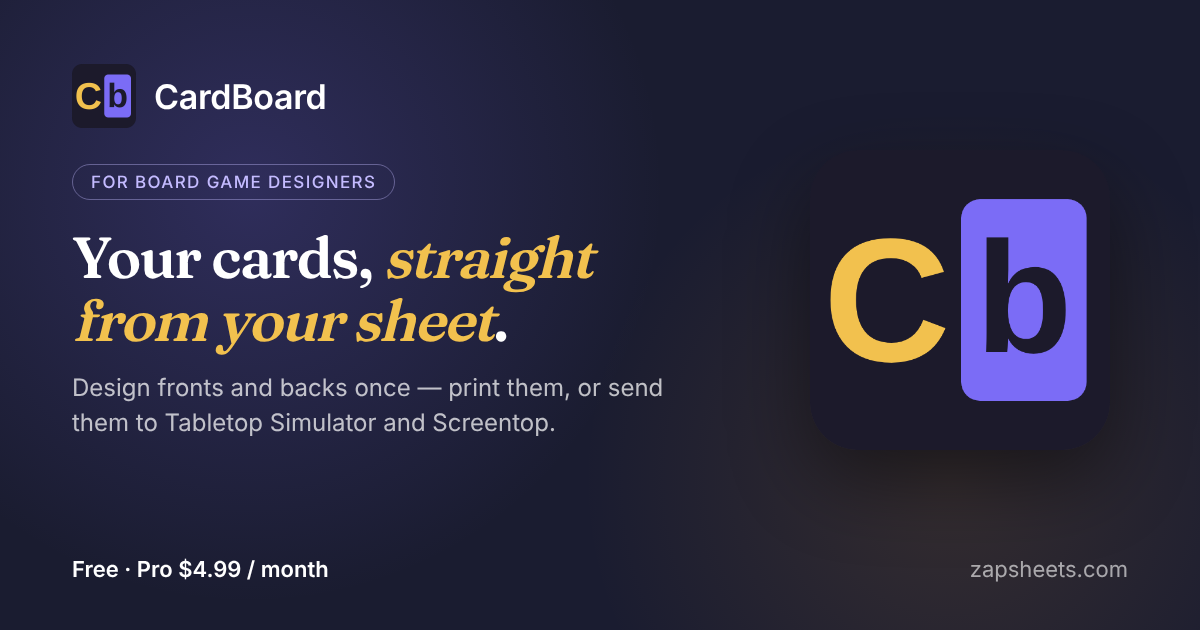
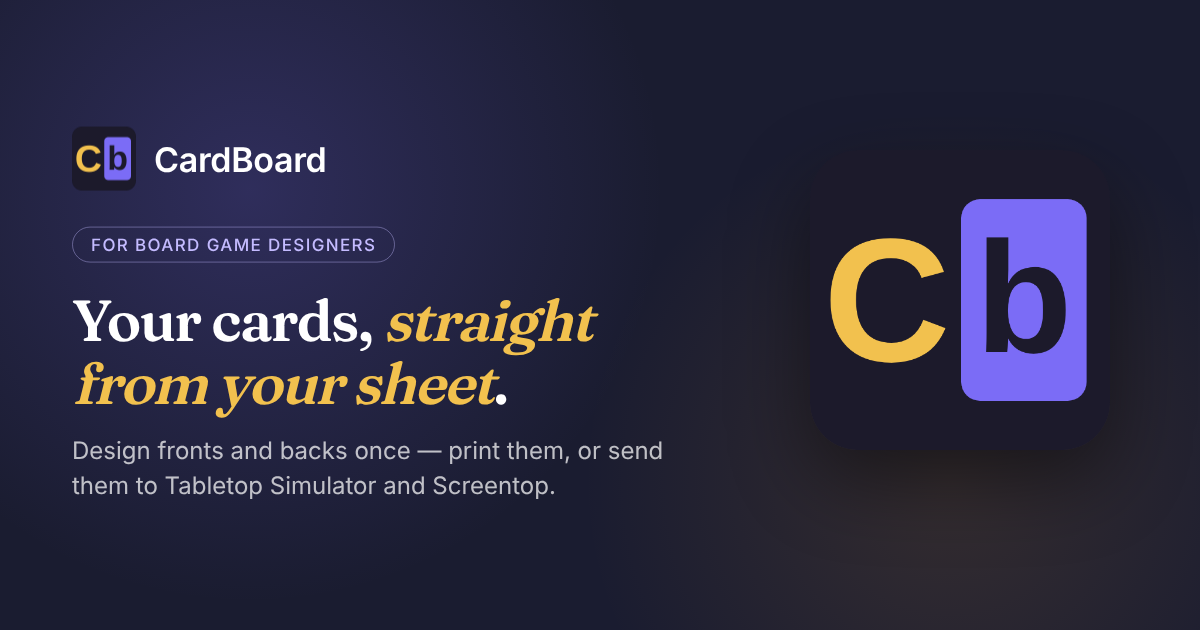
Share preview images: drop the bottom price/domain strip and centre the text (all four apps); og:image URLs versioned so previews refresh
Claude-Session: https://claude.ai/code/session_01Nmh9FvUR82FjzLAWNS1xm1

diff --git a/source/cardboard/features/index.php b/source/cardboard/features/index.php
@@ -15,7 +15,7 @@ $_scheme = (!empty($_SERVER['HTTPS']) && $_SERVER['HTTPS'] !== 'off') || (($_SER
 $_origin = $_scheme . '://' . ($_SERVER['HTTP_HOST'] ?? 'zapsheets.com');
 $_abs    = $_origin . $_base;
 $_pageUrl = htmlspecialchars($_abs . 'cardboard/features', ENT_QUOTES);
-$_ogImg   = htmlspecialchars($_abs . 'images/og/cardboard-og.png', ENT_QUOTES);
+$_ogImg   = htmlspecialchars($_abs . 'images/og/cardboard-og.png?v=2', ENT_QUOTES);
 $_icon    = htmlspecialchars($_abs . 'images/cardboard_icon_180.png', ENT_QUOTES);
 $_desc    = 'Design board game cards from your Google Sheet, then print them or send them to Tabletop Simulator and Screentop.';
 ?>

diff --git a/source/pitchboard/features/index.php b/source/pitchboard/features/index.php
@@ -15,7 +15,7 @@ $_scheme = (!empty($_SERVER['HTTPS']) && $_SERVER['HTTPS'] !== 'off') || (($_SER
 $_origin = $_scheme . '://' . ($_SERVER['HTTP_HOST'] ?? 'zapsheets.com');
 $_abs    = $_origin . $_base;
 $_pageUrl = htmlspecialchars($_abs . 'pitchboard/features', ENT_QUOTES);
-$_ogImg   = htmlspecialchars($_abs . 'images/og/pitchboard-og.png', ENT_QUOTES);
+$_ogImg   = htmlspecialchars($_abs . 'images/og/pitchboard-og.png?v=2', ENT_QUOTES);
 $_icon    = htmlspecialchars($_abs . 'images/pitchboard_icon_180.png', ENT_QUOTES);
 ?>
 <title>PitchBoard — Features</title>

diff --git a/source/gameboard/features/index.php b/source/gameboard/features/index.php
@@ -15,7 +15,7 @@ $_scheme = (!empty($_SERVER['HTTPS']) && $_SERVER['HTTPS'] !== 'off') || (($_SER
 $_origin = $_scheme . '://' . ($_SERVER['HTTP_HOST'] ?? 'zapsheets.com');
 $_abs    = $_origin . $_base;
 $_pageUrl = htmlspecialchars($_abs . 'gameboard/features', ENT_QUOTES);
-$_ogImg   = htmlspecialchars($_abs . 'images/og/gameboard-og.png', ENT_QUOTES);
+$_ogImg   = htmlspecialchars($_abs . 'images/og/gameboard-og.png?v=2', ENT_QUOTES);
 $_icon    = htmlspecialchars($_abs . 'images/gb_icon_180.png', ENT_QUOTES);
 ?>
 <title>GameBoard — Features</title>

diff --git a/source/devboard/features/index.php b/source/devboard/features/index.php
@@ -15,7 +15,7 @@ $_scheme = (!empty($_SERVER['HTTPS']) && $_SERVER['HTTPS'] !== 'off') || (($_SER
 $_origin = $_scheme . '://' . ($_SERVER['HTTP_HOST'] ?? 'zapsheets.com');
 $_abs    = $_origin . $_base;
 $_pageUrl = htmlspecialchars($_abs . 'devboard/features', ENT_QUOTES);
-$_ogImg   = htmlspecialchars($_abs . 'images/og/devboard-og.png', ENT_QUOTES);
+$_ogImg   = htmlspecialchars($_abs . 'images/og/devboard-og.png?v=2', ENT_QUOTES);
 $_icon    = htmlspecialchars($_abs . 'images/db_icon_180.png', ENT_QUOTES);
 ?>
 <title>DevBoard — Features</title>
